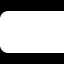
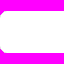
Modify loading background asset

diff --git a/arm9/source/App.cpp b/arm9/source/App.cpp
@@ -372,7 +372,6 @@ void App::HandleHideDisplaySettingsTrigger()
 
 void App::HandleShowLaunchSettingsTrigger()
 {
-    // LaunchSettingsBottomSheetView 생성
     auto launchSettingsDialog = std::make_unique<LaunchSettingsBottomSheetView>(
         _romBrowserController.GetRomBrowserViewModel().GetPointer(), 
         &_theme->GetMaterialColorScheme(), 
@@ -380,11 +379,6 @@ void App::HandleShowLaunchSettingsTrigger()
         &_appSettingsService, 
         &_languagePackService);
         
-    // (선택 사항) 만약 뷰 내부에서 특수 아이콘(_iconButtonViewVram 등)을 
-    // 사용하게 된다면 아래처럼 SetGraphics를 호출해야 할 수도 있습니다.
-    // launchSettingsDialog->SetGraphics(_iconButtonViewVram); 
-
-    // 화면 최상단 다이얼로그 매니저를 통해 렌더링 시작
     _dialogPresenter.ShowDialog(std::move(launchSettingsDialog));
 }
 
@@ -503,28 +497,21 @@ void App::Update()
         return;
     }
 
-    // ▼ 여기서부터 중복 제거 및 깔끔하게 정리된 분기 로직 ▼
     bool isNdsBootstrap = (_appSettingsService.GetAppSettings().loaderType == LoaderType::NDS_Bootstrap);
     bool showLoadingView = (curState == RomBrowserState::Launching && isNdsBootstrap);
 
-    if (showLoadingView)
-    {
-        if (_loadingView) _loadingView->Update();
-    }
-    else
-    {
-        _romBrowserBottomScreenView->Update();
-    }
+    _romBrowserBottomScreenView->Update();
 
     if (IsRomBrowserVisible())
     {
-        // 런칭 중이 아닐 때만 상단 브라우저 및 아이콘 업데이트
-        if (!showLoadingView)
-        {
-            _romBrowserTopScreenView->Update();
-            _romBrowserController.GetRomBrowserViewModel()->SetIconFrameCounter(
-                _romBrowserController.GetRomBrowserViewModel()->GetIconFrameCounter() + 1);
-        }
+        _romBrowserTopScreenView->Update();
+        _romBrowserController.GetRomBrowserViewModel()->SetIconFrameCounter(
+            _romBrowserController.GetRomBrowserViewModel()->GetIconFrameCounter() + 1);
+    }
+
+    if (showLoadingView && _loadingView)
+    {
+        _loadingView->Update();
     }
 }
 
@@ -560,27 +547,23 @@ void App::Draw()
     if (_bottomBackground)
         _bottomBackground->Draw(mainGraphicsContext);
 
-    // ▼ 여기서부터 중복 제거된 렌더링 분기 로직 ▼
     auto curState = _romBrowserController.GetStateMachine().GetCurrentState();
     bool isNdsBootstrap = (_appSettingsService.GetAppSettings().loaderType == LoaderType::NDS_Bootstrap);
     bool showLoadingView = (curState == RomBrowserState::Launching && isNdsBootstrap);
 
     if (!_changeDisplayMode && IsRomBrowserVisible())
     {
-        if (!showLoadingView)
-            _romBrowserTopScreenView->Draw(subGraphicsContext);
+        _romBrowserTopScreenView->Draw(subGraphicsContext);
     }
 
     _dialogPresenter.ApplyClipArea(mainGraphicsContext);
     if (!_changeDisplayMode)
     {
-        if (showLoadingView)
+        _romBrowserBottomScreenView->Draw(mainGraphicsContext);
+
+        if (showLoadingView && _loadingView)
         {
-            if (_loadingView) _loadingView->Draw(mainGraphicsContext);
-        }
-        else
-        {
-            _romBrowserBottomScreenView->Draw(mainGraphicsContext);
+            _loadingView->Draw(mainGraphicsContext);
         }
     }
     mainGraphicsContext.ResetClipArea();
@@ -620,20 +603,16 @@ void App::VBlank()
 
     _dialogPresenter.VBlank();
 
-    // 🔥 누락되었던 상단 화면 VBlank 처리 추가
     if (IsRomBrowserVisible())
     {
-        if (!showLoadingView)
-            _romBrowserTopScreenView->VBlank();
+        _romBrowserTopScreenView->VBlank();
     }
+    
+    _romBrowserBottomScreenView->VBlank();
 
-    if (showLoadingView)
+    if (showLoadingView && _loadingView)
     {
-        if (_loadingView) _loadingView->VBlank();
-    }
-    else
-    {
-        _romBrowserBottomScreenView->VBlank();
+        _loadingView->VBlank();
     }
 
     _vblankTextureLoader.VBlank();

diff --git a/arm9/source/romBrowser/views/LoadingView.cpp b/arm9/source/romBrowser/views/LoadingView.cpp
@@ -16,16 +16,13 @@ LoadingView::LoadingView(LoadingViewModel* viewModel,
     : _viewModel(viewModel)
     , _loadingLabel(128, 16, 25, fontRepository->GetFont(FontType::Medium11))
 {
-    _loadingLabel.SetText(u"로딩중..");
+    _loadingLabel.SetText(u"로딩 중..");
     _loadingLabel.SetHorizontalAlignment(Alignment::Start);
-    // 하단 화면 중앙에 배치
-    _loadingLabel.SetPosition(128, 96 - 8); 
+    _loadingLabel.SetPosition(104, 96 - 8); 
     
-    // 배경색과 글자색 테마 적용
     _loadingLabel.SetBackgroundColor(colorScheme->GetColor(md::sys::color::primary));
     _loadingLabel.SetForegroundColor(colorScheme->onSurface);
 
-    // AddChildTail(&_loadingLabel); <-- 이 줄을 지우고 아래 줄로 변경하세요.
     _loadingLabel.SetParent(this);
 }
 
@@ -36,7 +33,6 @@ void LoadingView::InitVram(const VramContext& vramContext)
     const auto objVramManager = vramContext.GetObjVramManager();
     if (objVramManager)
     {
-        // 타일 데이터 업로드 (배터리 코드와 동일)
         _bg1VramOffset = objVramManager->Alloc(loadingBg_1TilesLen);
         dma_ntrCopy32(3, loadingBg_1Tiles, objVramManager->GetVramAddress(_bg1VramOffset), loadingBg_1TilesLen);
 
@@ -59,7 +55,7 @@ void LoadingView::Draw(GraphicsContext& graphicsContext)
     OamBuilder::OamWithSize<64, 64>(
             64, 64, 
             _bg1VramOffset >> 7)
-        .WithPalette16(14) // 🔥 왼쪽은 14번 팔레트를 사용합니다.
+        .WithPalette16(14)
         .WithPriority(prio)
         .Build(oams[0]);
 
@@ -67,7 +63,7 @@ void LoadingView::Draw(GraphicsContext& graphicsContext)
     OamBuilder::OamWithSize<64, 64>(
             128, 64, 
             _bg2VramOffset >> 7)
-        .WithPalette16(15) // 🔥 오른쪽은 자기 전용 15번 팔레트를 사용합니다.
+        .WithPalette16(15)
         .WithPriority(prio)
         .Build(oams[1]);
 
@@ -80,15 +76,10 @@ void LoadingView::VBlank()
     {
         u16* mainObjPalette = (u16*)GFX_PLTT_OBJ_MAIN;
         
-        // 🔥 안전한 복사: DMA 덮어쓰기 버그(상단 화면 침범)를 원천 차단하기 위해
-        // 배열 길이 변수(PalLen)를 믿지 않고, 딱 16개의 색상만 수동으로 정확히 꽂아 넣습니다.
-        
-        // 왼쪽 팝업 팔레트는 14번 슬롯에 복사
         for (int i = 0; i < 16; i++) {
             mainObjPalette[(14 * 16) + i] = loadingBg_1Pal[i];
         }
         
-        // 오른쪽 팝업 팔레트는 15번 슬롯에 복사 (오른쪽이 회색으로 나오는 문제 완벽 해결!)
         for (int i = 0; i < 16; i++) {
             mainObjPalette[(15 * 16) + i] = loadingBg_2Pal[i];
         }

diff --git a/arm9/source/NdsBootstrapProcess.cpp b/arm9/source/NdsBootstrapProcess.cpp
@@ -244,7 +244,6 @@ void NdsBootstrapProcess::Launch()
 {
     auto loadParams = pload_getLoadParams();
 
-    // 🚨 new 대신 static을 사용하여 힙 충돌을 방지합니다.
     static char targetRom[256];
     static char targetSave[256];
     
@@ -276,7 +275,6 @@ void NdsBootstrapProcess::Launch()
         if (f_open(&saveFile, targetSave, FA_CREATE_ALWAYS | FA_WRITE) == FR_OK)
         {
             const u32 bufferSize = 4096;
-            // 🚨 여기서도 new 대신 static 배열을 사용합니다.
             static u8 buffer[4096];
             memset(buffer, 0xFF, bufferSize);
             
@@ -297,8 +295,6 @@ void NdsBootstrapProcess::Launch()
 
     bool isValidDsi = HasValidDsiBinary(targetRom);
     bool iniResult = PrepareIni(targetRom, targetSave, isValidDsi);
-    
-    // 🚨 delete[] 코드는 static을 사용하므로 모두 제거했습니다.
 
     if (!iniResult)
     {

diff --git a/arm9/source/romBrowser/views/LoadingView.h b/arm9/source/romBrowser/views/LoadingView.h
@@ -22,7 +22,6 @@ public:
     void Draw(GraphicsContext& graphicsContext) override;
     void VBlank() override;
 
-    // 추가: View의 순수 가상 함수 구현
     Rectangle GetBounds() const override
     {
         return Rectangle(0, 0, 256, 192);
@@ -35,6 +34,5 @@ private:
     u32 _bg1VramOffset = 0;
     u32 _bg2VramOffset = 0;
     
-    // 🔥 팔레트 업로드 여부 확인용 플래그
     bool _paletteUploaded = false;
 };

diff --git a/arm9/source/App.h b/arm9/source/App.h
@@ -137,5 +137,5 @@ private:
 
     LoadingViewModel _loadingViewModel { &_romBrowserController };
     std::unique_ptr<LoadingView> _loadingView;
-    int _launchDelayFrames = 0; // 로딩창 렌더링 대기용 프레임 카운터
+    int _launchDelayFrames = 0;
 };
